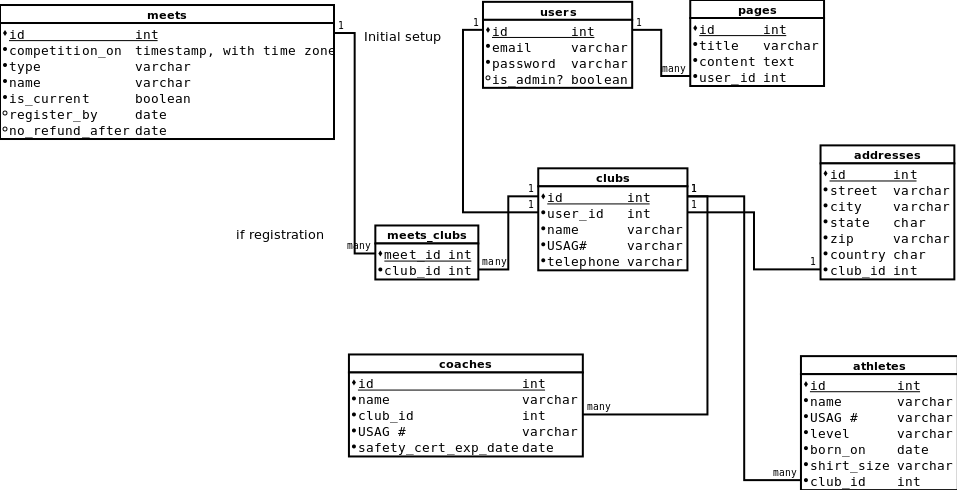
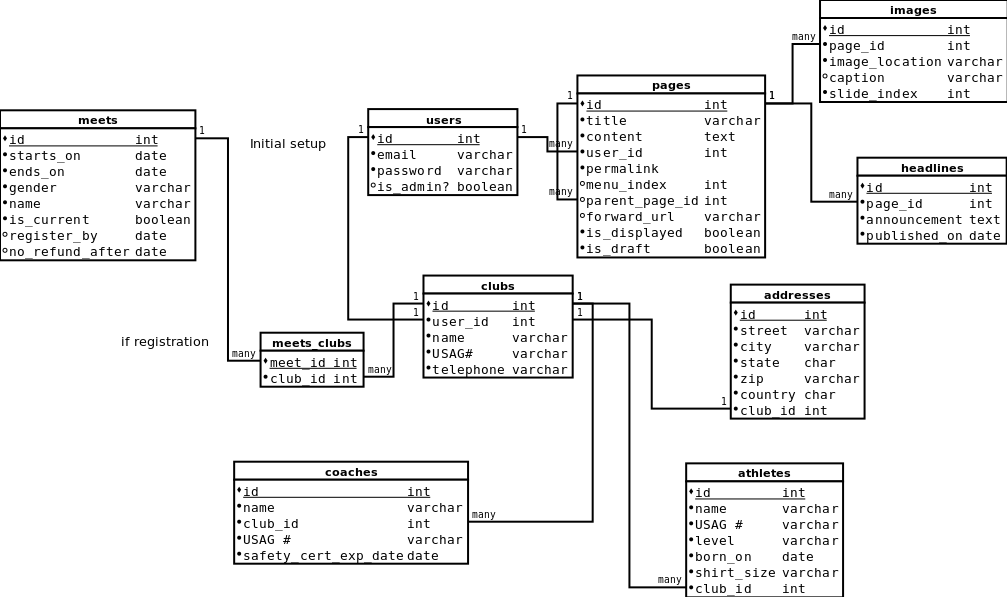
Include images + headlines in schema design

Changed region(s): [[0.0, 0.0, 1.0, 1.0]]

diff --git a/db/schema.rb b/db/schema.rb
@@ -11,7 +11,7 @@
 #
 # It's strongly recommended that you check this file into your version control system.
 
-ActiveRecord::Schema.define(version: 20160506075024) do
+ActiveRecord::Schema.define(version: 20160507190539) do
 
   # These are extensions that must be enabled in order to support this database
   enable_extension "plpgsql"
@@ -64,6 +64,28 @@ ActiveRecord::Schema.define(version: 20160506075024) do
 
   add_index "ckeditor_assets", ["assetable_type", "assetable_id"], name: "idx_ckeditor_assetable", using: :btree
   add_index "ckeditor_assets", ["assetable_type", "type", "assetable_id"], name: "idx_ckeditor_assetable_type", using: :btree
+
+  create_table "headlines", force: :cascade do |t|
+    t.integer "page_id"
+    t.text    "announcement"
+    t.date    "published_on"
+  end
+
+  add_index "headlines", ["page_id"], name: "index_headlines_on_page_id", using: :btree
+
+  create_table "images", force: :cascade do |t|
+    t.integer  "page_id"
+    t.string   "image_location_file_name",                null: false
+    t.string   "image_location_content_type",             null: false
+    t.integer  "image_location_file_size",                null: false
+    t.datetime "image_location_updated_at",               null: false
+    t.string   "caption"
+    t.integer  "slide_index",                 default: 0
+    t.datetime "created_at"
+    t.datetime "updated_at"
+  end
+
+  add_index "images", ["page_id"], name: "index_images_on_page_id", using: :btree
 
   create_table "meets", force: :cascade do |t|
     t.date     "starts_on",                      null: false
